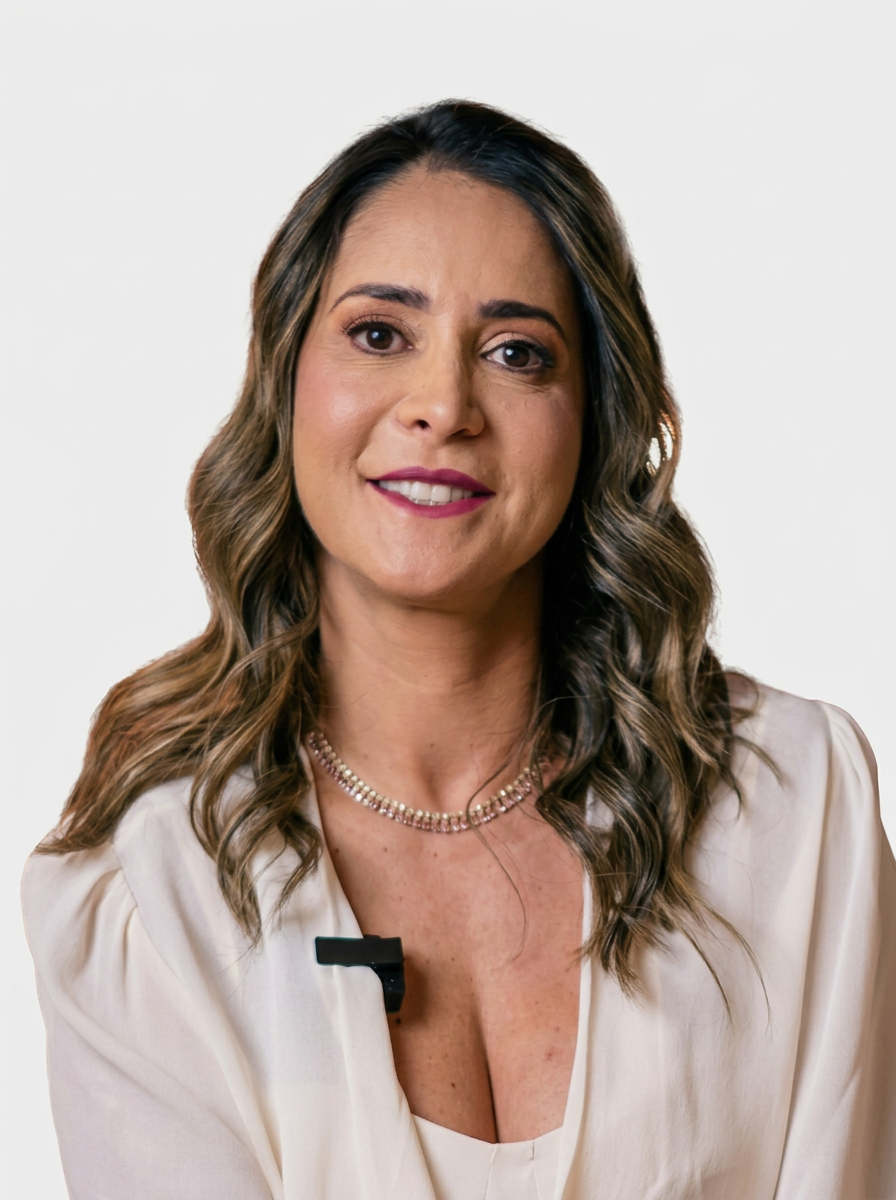
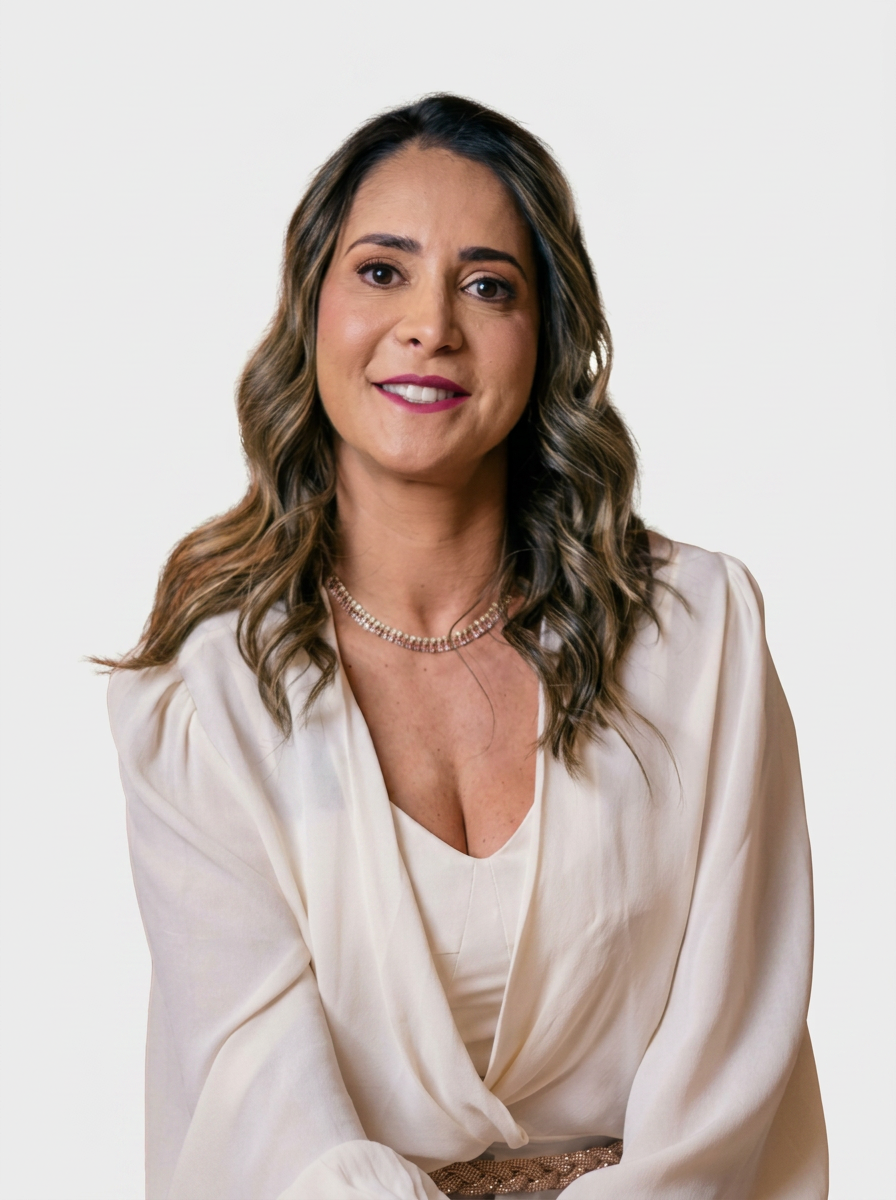
Changes

diff --git a/src/components/InstitutionalSection.tsx b/src/components/InstitutionalSection.tsx
@@ -1,4 +1,4 @@
-import doutorasJuntas from "@/assets/doutoras-juntas-v2.jpg";
+import doutorasJuntas from "@/assets/doutoras-juntas.jpg";
 
 const InstitutionalSection = () => {
   return (
